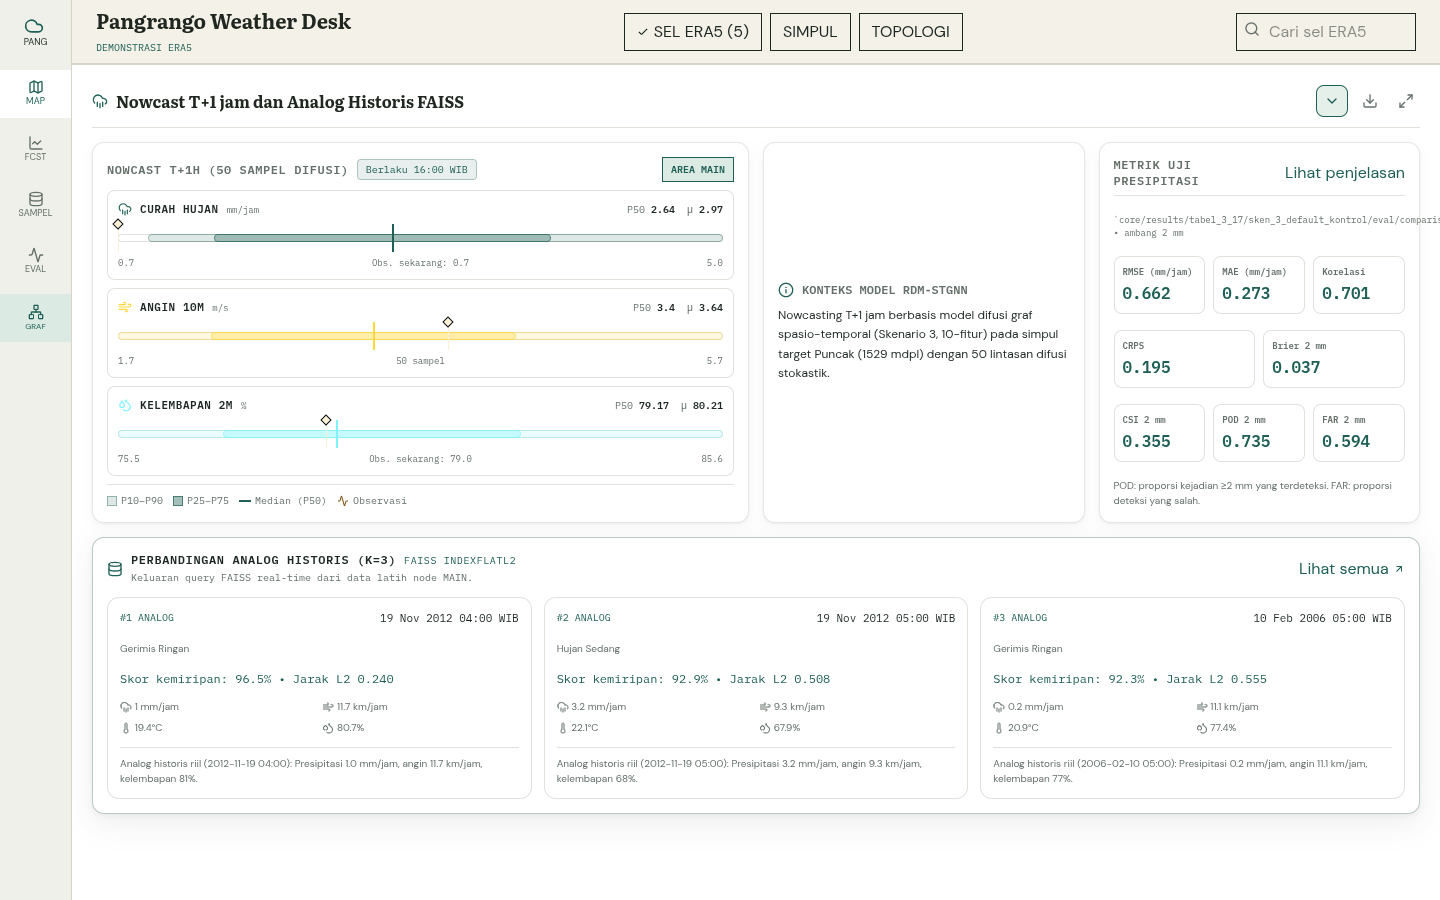
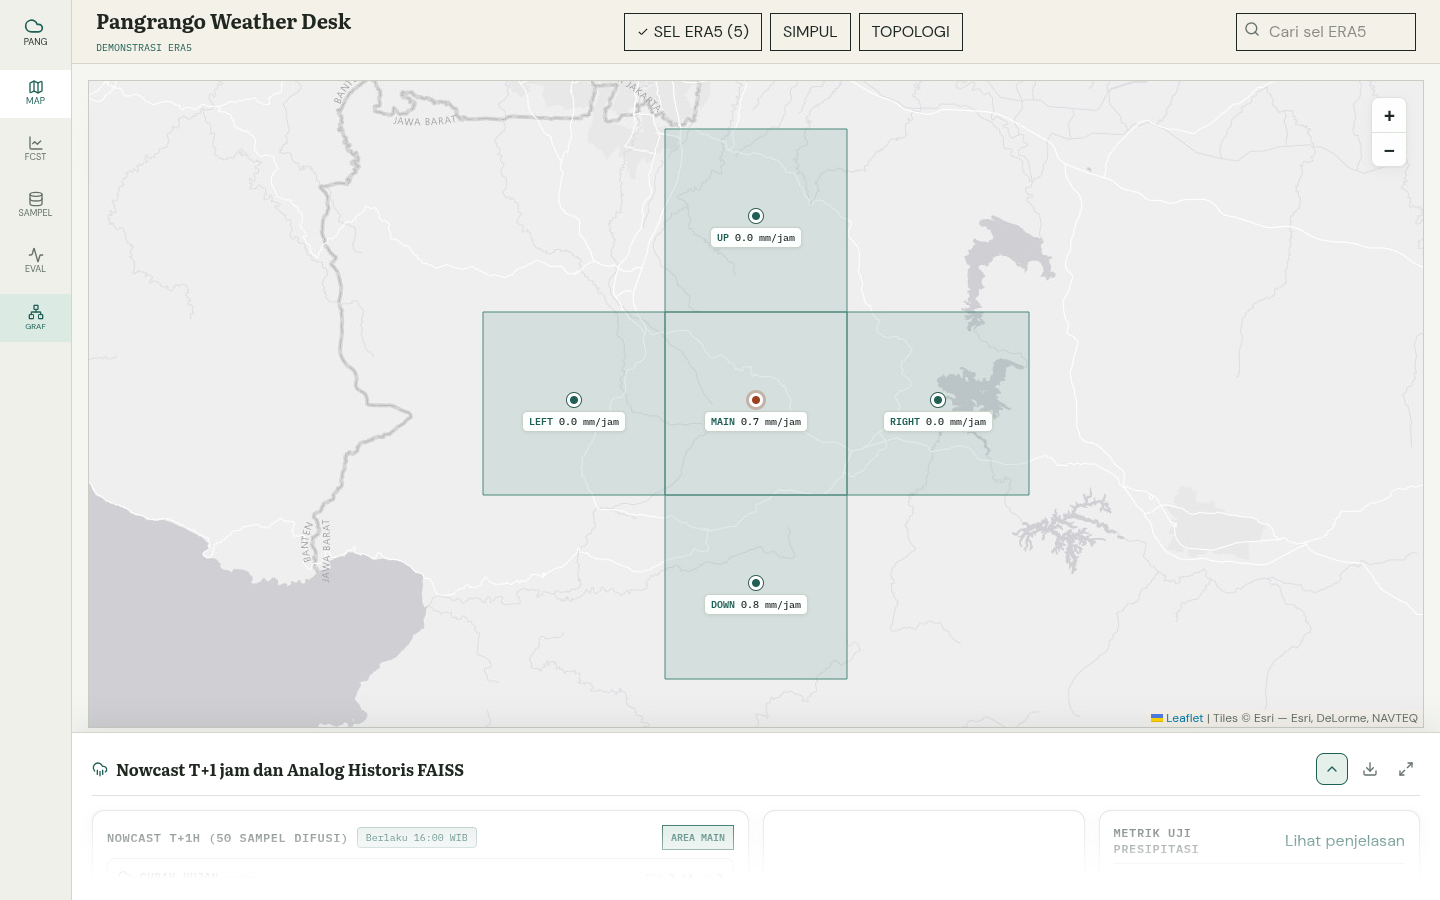
fix(web): switch Leaflet basemap to clean Esri World Light Gray Canvas without API key watermark

diff --git a/web/src/components/MapView.tsx b/web/src/components/MapView.tsx
@@ -7,7 +7,7 @@ interface MapViewProps { selectedNodeId: NodeId; onSelectNode: (nodeId: NodeId) 
 const GRID_HALF_STEP = .125;
 export const MapView: React.FC<MapViewProps> = ({ selectedNodeId, onSelectNode, currentFrame, radarVisible, nodesVisible, onOpenNodeDetail }) => {
   const container = useRef<HTMLDivElement>(null); const mapRef = useRef<L.Map | null>(null); const cells = useRef<Record<string, L.Rectangle>>({}); const markers = useRef<Record<string, L.Marker>>({}); const [hovered, setHovered] = useState<NodeId | null>(null);
-  useEffect(() => { if (!container.current || mapRef.current) return; const map = L.map(container.current, { center: [-6.75, 107], zoom: 10, minZoom: 9, maxZoom: 14, zoomControl: false }); L.control.zoom({ position: 'topright' }).addTo(map); L.tileLayer('https://tile.openstreetmap.org/{z}/{x}/{y}.png', { attribution: '&copy; OpenStreetMap contributors' }).addTo(map); mapRef.current = map; return () => { map.remove(); mapRef.current = null; }; }, []);
+  useEffect(() => { if (!container.current || mapRef.current) return; const map = L.map(container.current, { center: [-6.75, 107], zoom: 10, minZoom: 9, maxZoom: 14, zoomControl: false }); L.control.zoom({ position: 'topright' }).addTo(map); L.tileLayer('https://server.arcgisonline.com/ArcGIS/rest/services/Canvas/World_Light_Gray_Base/MapServer/tile/{z}/{y}/{x}', { attribution: 'Tiles &copy; Esri &mdash; Esri, DeLorme, NAVTEQ', maxZoom: 16 }).addTo(map); mapRef.current = map; return () => { map.remove(); mapRef.current = null; }; }, []);
   useEffect(() => { const map = mapRef.current; if (!map) return; if (!radarVisible) { Object.values(cells.current).forEach((cell: L.Rectangle) => cell.remove()); cells.current = {}; return; } Object.values(NODES_LIST).forEach((node) => { const rain = currentFrame.telemetries[node.id]?.rainIntensityMmH ?? 0; const bounds: L.LatLngBoundsExpression = [[node.lat - GRID_HALF_STEP, node.lng - GRID_HALF_STEP], [node.lat + GRID_HALF_STEP, node.lng + GRID_HALF_STEP]]; const style = { color: rain >= 10 ? '#b96a4b' : rain >= 2 ? '#bc8a35' : '#4d897c', fillOpacity: .16, weight: 1 }; const existing = cells.current[node.id]; if (existing) { existing.setStyle(style); existing.setBounds(bounds); } else cells.current[node.id] = L.rectangle(bounds, style).bindTooltip(`<strong>${node.id}</strong><br>${rain.toFixed(1)} mm/jam<br><small>Contoh sel ERA5</small>`).addTo(map); }); }, [radarVisible, currentFrame]);
   useEffect(() => { const map = mapRef.current; if (!map) return; if (!nodesVisible) { Object.values(markers.current).forEach((marker: L.Marker) => marker.remove()); markers.current = {}; return; } Object.values(NODES_LIST).forEach((node) => { const rain = currentFrame.telemetries[node.id]?.rainIntensityMmH ?? 0; const icon = L.divIcon({ html: `<div class="era5-node ${selectedNodeId === node.id ? 'is-selected' : ''}"><span class="era5-node__dot"></span><span class="era5-node__label"><b>${node.id}</b> ${rain.toFixed(1)} mm/jam</span></div>`, className: 'era5-node-icon', iconSize: [130, 44], iconAnchor: [65, 11] }); const existing = markers.current[node.id]; if (existing) existing.setIcon(icon); else { const marker = L.marker([node.lat, node.lng], { icon }).addTo(map); marker.on('click', () => onSelectNode(node.id)); marker.on('mouseover', () => setHovered(node.id)); marker.on('mouseout', () => setHovered(null)); markers.current[node.id] = marker; } }); }, [nodesVisible, selectedNodeId, currentFrame, onSelectNode]);
   const active = hovered ? NODES_LIST[hovered] : null; const telemetry = hovered ? currentFrame.telemetries[hovered] : null;
